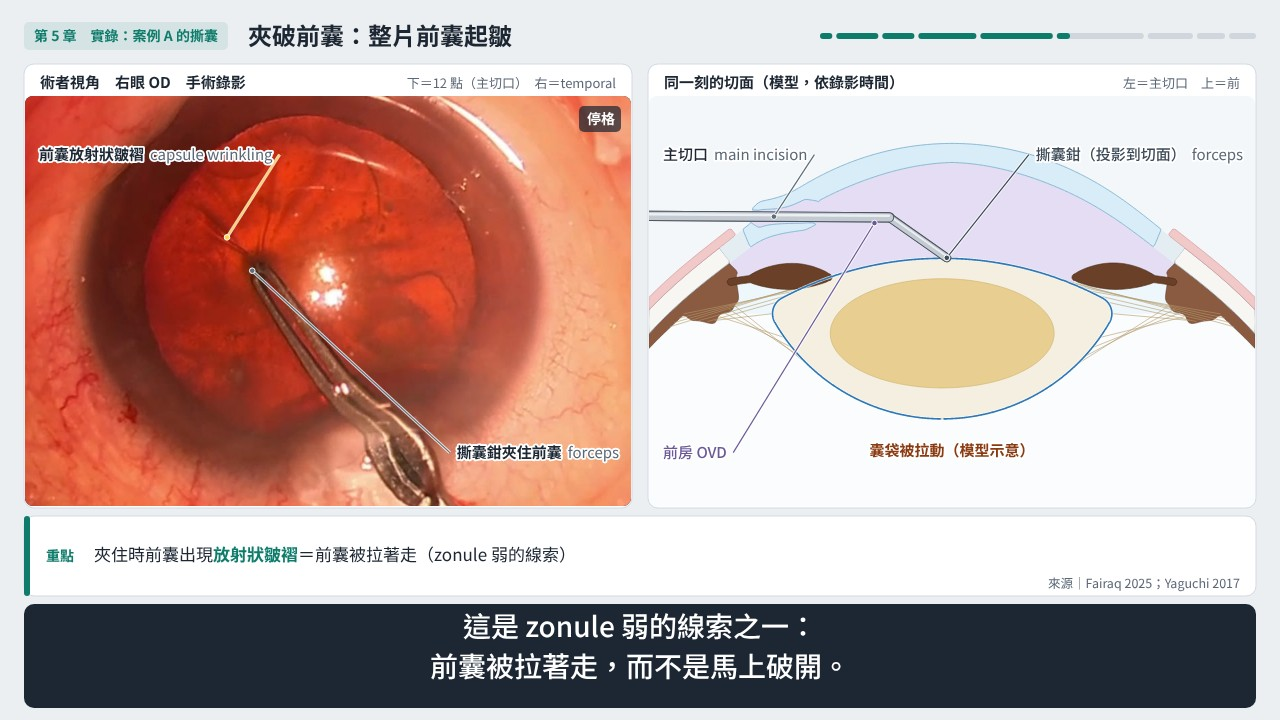
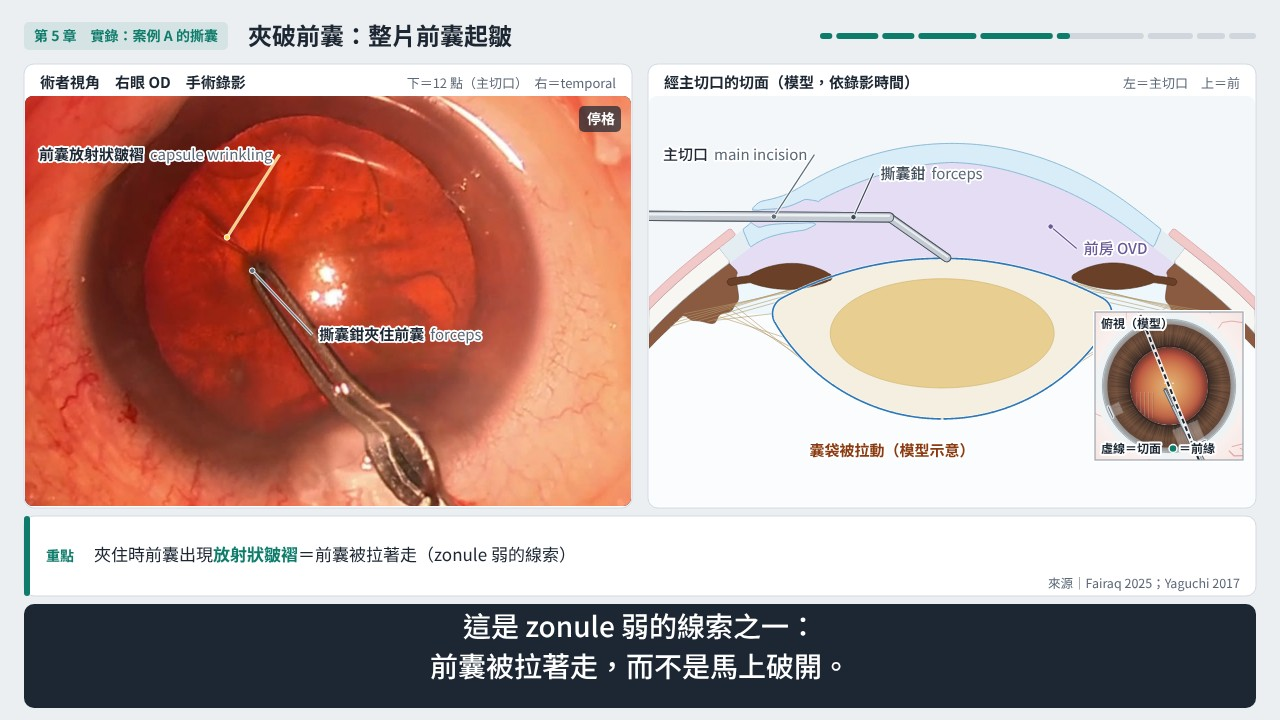
白內障 ①：第 5 章精修（右邊依鉗子位置同步前緣、側切口補 OVD 用側切口切面、裁切跟著眼睛）
- 錄影第 2–4 段逐格量鉗子夾的位置與角膜中心（47 個關鍵格），前緣依翻折瓣的幾何重建（示意），模型的前緣與鉗子都由關鍵格驅動
- 撕的時候右邊改成撕囊前緣的切面＋模型俯視小圖；5-3 改用經側切口的切面，cannula 從側切口進來
- 裁切關鍵格跟著眼睛；停格「重新夾」標籤改指張開的鉗尖之間；標籤靠近定位點
- check.js 加 7 條同步與器械檢查，故意改錯全部抓到；參考圖 5-1～5-6 自檢更新

Claude-Session: https://claude.ai/code/session_01UTYneMUKRrc1Hex89Apcyj

diff --git a/videos/src/cataract-1-wound-ccc/check.js b/videos/src/cataract-1-wound-ccc/check.js
@@ -30,11 +30,11 @@ const LEDGER = {
   '4-2': { '12': '結構', '1': '結構' },
   '4-3': { '402': 'Yaguchi 2017', '0.2': 'Yaguchi 2017', '0.39': 'Yaguchi 2017', '0.4': 'Yaguchi 2017', '5': 'Fairaq 2025', '6': 'Fairaq 2025', '12': '結構' },
   '5-1': { '0.5': '錄影', '12': '結構' },
-  '5-2': { '3': '錄影', '12': '結構' },
-  '5-3': { '4': '錄影', '12': '結構' },
-  '5-4': { '12': '結構' },
-  '5-5': { '5': '錄影', '4': '錄影', '12': '結構' },
-  '5-6': { '6': '錄影', '3': '錄影', '4': '錄影', '8': '錄影', '0.5': '錄影', '12': '結構' },
+  '5-2': { '3': '錄影', '12': '結構', '1': '結構' },
+  '5-3': { '4': '錄影', '12': '結構', '2': '錄影' },
+  '5-4': { '12': '結構', '1': '結構' },
+  '5-5': { '5': '錄影', '4': '錄影', '12': '結構', '1': '結構' },
+  '5-6': { '6': '錄影', '3': '錄影', '4': '錄影', '8': '錄影', '0.5': '錄影', '12': '結構', '1': '結構' },
   '5-7': { '1': '結構', '2': '結構', '4': '結構', '5': '結構', '00': '結構', '3': '錄影', '8': '錄影' },
   '6-1': { '12': '結構', '1': '結構' },
   '6-2': { '1': '結構', '2': '結構', '3': '結構', '4': '結構', '12': '結構' },
@@ -60,9 +60,14 @@ async function screenText() {   // all text drawn on screen per segment, at 60 %
         for (const t of document.querySelectorAll('#stage text')) if (!t.classList.contains('hdr')) set.add(t.textContent); }
       r[s.id] = [...set]; }
     return r; });
+  // chapter 5: the right panel's state at every tear keyframe (and at the moments another instrument is in the eye), as the page draws it
+  const sync = await p.evaluate(() => { const r = [], segOf = { pass2: '5-4', pass3: '5-5', pass4: '5-6' };
+    for (const [id, c] of Object.entries(FOOTAGE_DEF.clips)) for (const q of ((c.points || {}).grasp || [])) r.push({ seg: segOf[id], s: q.t });
+    for (const [seg, s] of [['5-1', 68], ['5-1', 70], ['5-3', 121], ['5-3', 124], ['5-6', 242], ['5-6', 248], ['5-6', 298], ['5-6', 299]]) r.push({ seg, s, other: 1 });
+    return r.map(q => { const z = SYNC_AT(q.seg, q.s), i = (z.st.cat.inst || [])[0]; return { ...q, view: z.view, hp: z.hp, frontH: z.frontH, prog: z.prog, secSt: z.secSt, inst: i ? { kind: i.kind, via: i.via || 'main', h: i.at && i.at.h } : null }; }); });
   await b.close();
   if (errs.length) throw new Error('page errors: ' + errs.join(' | '));
-  return out;
+  return { out, sync };
 }
 
 // ---------------------------------------------------------------- 2. narration ↔ model ↔ footage
@@ -122,6 +127,39 @@ function modelChecks(ctx) {
   { const pc = D.clips.pinch, w = pc.points.wrinkle[0].t, pr = D.clips.pass2;
     ok(w >= E.wrinkles && w <= E['wrinkles-gone'] && pc.freeze[0].at === w && pr.freeze[0].at === E['grasp-3'] && pr.points['regrasp-tips'][0].t === E['grasp-3'],
       `wrinkle label measured at ${w} s inside ${E.wrinkles}–${E['wrinkles-gone']} s (frozen); regrasp label on the frozen ${E['grasp-3']} s frame`); }
+  // chapter 5 sync (2026-11-09): the footage keyframes (forceps jaws and cornea centre, source px) → clock hour of the forceps; the tear front
+  // reconstructed from them (the forceps hold the folded flap = the torn arc mirrored about the front, so front φ ≥ ½ grasp φ; front at that
+  // bound, never back; pass1End before pass 2; complete at pass4-out). Re-implemented here and compared with what the page draws (SYNC_AT).
+  { const cc = P.ccc, m12 = v => ((v % 12) + 12) % 12, dH = (a, b) => Math.abs(m12(a - b + 6) - 6);
+    const hourPx = (p, c) => m12(12 - Math.atan2(p[0] - c[0], p[1] - c[1]) * 180 / Math.PI / 30);
+    const keys = []; for (const c of Object.values(D.clips)) { const g = (c.points || {}).grasp, k = (c.points || {}).cornea; if (g) g.forEach((q, i) => keys.push({ s: q.t, h: hourPx(q.p, k[i].p) })); }
+    keys.sort((a, b) => a.s - b.s); let prev = null, M = 0;
+    for (const q of keys) { const r = m12(cc.dir * (q.h - cc.h0)); q.g = prev === null ? r : prev + (m12(r - prev + 6) - 6); prev = q.g; M = Math.max(M, q.g); q.f = Math.max(P.pass1End, M / 2); q.fh = m12(cc.h0 + cc.dir * q.f); }
+    const page = s => ctx.sync.find(z => z.s === s && !z.other), bad = [], badF = [], badV = [], badFold = [];
+    for (const q of keys) { const z = page(q.s);
+      if (!z || !z.inst || z.inst.kind !== 'forceps' || dH(z.inst.h, q.h) > 0.5) bad.push(`${q.s}s footage ${q.h.toFixed(1)} h, model ${z && z.inst ? (+z.inst.h).toFixed(1) : '—'}`);
+      if (!z || z.frontH === null || dH(z.frontH, q.fh) > 0.5) badF.push(`${q.s}s expected ${q.fh.toFixed(1)} h, model ${z && z.frontH !== null ? z.frontH.toFixed(1) : '—'}`);
+      if (!z || z.view !== 'tear' || dH(z.hp, z.frontH) > 0.5 || (z.secSt.cat.inst || []).length) badV.push(`${q.s}s ${z ? z.view : '—'}`);
+      if (!(q.f <= q.g + 0.3 && q.g <= 2 * q.f + 0.3)) badFold.push(`${q.s}s grasp φ ${q.g.toFixed(1)}, front φ ${q.f.toFixed(1)}`); }
+    ok(keys.length >= 40 && !bad.length, `chapter 5: at all ${keys.length} tear keyframes the model's forceps sit at the footage's clock hour (±0.5 h)${bad.length ? '; off: ' + bad.slice(0, 4).join(', ') : ''}`);
+    ok(!badF.length, `chapter 5: the model's tear front at every keyframe is the front reconstructed from the footage (±0.5 h)${badF.length ? '; off: ' + badF.slice(0, 4).join(', ') : ''}`);
+    ok(!badV.length, `chapter 5: while the forceps tear the right panel is the section through the front (±0.5 h) and draws no instrument${badV.length ? '; wrong: ' + badV.slice(0, 4).join(', ') : ''}`);
+    ok(!badFold.length, `chapter 5: every grasp lies on the folded flap (front φ ≤ grasp φ ≤ 2 × front φ)${badFold.length ? '; off: ' + badFold.slice(0, 3).join(', ') : ''}`);
+    // narration: pass 2 tears to the right (temporal, 9 o'clock side); pass 3 goes on; pass 4 finishes and the front meets the start
+    const at = s => { const r = keys.filter(q => q.s <= s); return r.length ? r[r.length - 1] : null; }, e2 = at(E['pass2-out']), e3 = at(E['pass3-out']);
+    const end = ctx.sync.filter(z => !z.other && z.s >= E['pass4-in']).slice(-1)[0];
+    ok(e2 && e2.fh >= 8 && e2.fh <= 10.5 && e3 && e3.f >= e2.f + 1 && e3.f < 11.5 && line(ctx, '5-4', 0).includes('撕到右側') && line(ctx, '5-6', 1).includes('接回起點'),
+      `chapter 5: front at the end of pass 2 at ${e2 ? e2.fh.toFixed(1) : '—'} h (temporal, narration 撕到右側), end of pass 3 ${e3 ? e3.fh.toFixed(1) : '—'} h (not complete; pass 4 接回起點)`);
+    // other instruments: OVD through the side port → side-port section, through the main incision / flap out / pinch → main-incision section,
+    // and the section contains the tunnel the instrument goes through (it enters through its incision in the drawing)
+    const oth = ctx.sync.filter(z => z.other), badI = [];
+    for (const z of oth) { if (!z.inst) { badI.push(`${z.seg} ${z.s}s no instrument`); continue; }
+      const want = z.inst.via === 'side' ? 'side' : 'main', r = z.view === want ? K.section({ st: z.secSt, h: z.hp, win: { x: -8.6, y: -14.5, w: 17.2, h: 11.6 }, step: 0.25, id: 'x' }) : null;
+      if (!r || !r.A[want + 'Pivot'] || !r.A.tip0) badI.push(`${z.seg} ${z.s}s ${z.inst.kind} via ${z.inst.via} in the ${z.view} section`); }
+    ok(oth.length >= 8 && !badI.length, `chapter 5: ${oth.length} moments with the pinching forceps, the cannula or the flap out: each section passes through the incision that instrument uses${badI.length ? '; wrong: ' + badI.join(', ') : ''}`);
+    // the freeze-frame regrasp label points at the measured jaws (the grasp keyframe on that frame)
+    const rg = D.clips.pass2.points['regrasp-tips'][0], gk = D.clips.pass2.points.grasp.find(q => q.t === rg.t);
+    ok(gk && Math.hypot(gk.p[0] - rg.p[0], gk.p[1] - rg.p[1]) <= 3 && rg.t === E['grasp-3'], `regrasp label at the jaws measured on the frozen ${rg.t} s frame (grasp keyframe ${gk ? gk.p.join(', ') : '—'})`); }
   return R;
 }
 
@@ -148,13 +186,15 @@ function ledgerChecks(ctx) {
 const clone = o => JSON.parse(JSON.stringify(o));
 function baseCtx(screen) {
   const text = {}; for (const s of SEGS) text[s.id] = clone(s);
-  return { P: clone(CASE), foot: { sources: FOOT.sources, clips: clone(FOOT.clips) }, text, segs: clone(SEGS), screen: clone(screen), ledger: clone(LEDGER) };
+  return { P: clone(CASE), foot: { sources: FOOT.sources, clips: clone(FOOT.clips) }, text, segs: clone(SEGS), screen: clone(screen), ledger: clone(LEDGER), sync: clone(SYNC) };
 }
+let SYNC = null;
 const runAll = ctx => [...ledgerChecks(ctx), ...modelChecks(ctx)];
 (async () => {
-  const screen = await screenText();
+  const { out: screen, sync } = await screenText();
   if (process.argv.includes('--list')) { for (const s of SEGS) if (!s.chapterCard && s.layout !== 'refs') { const t = [s.title || '', ...(s.lines || []), ...(s.keys || []).map(k => k[1]), ...(screen[s.id] || [])];
     console.log(s.id, [...new Set(t.flatMap(numbers))].join(' '), '|', [...new Set(t.flatMap(x => cites(x).map(c => c.all)))].join(', ')); } return; }
+  SYNC = sync;
   const res = runAll(baseCtx(screen));
   let fail = 0; const shown = new Set();
   for (const [c, m] of res) { if (!c) fail++; const key = (c ? 'PASS ' : 'FAIL ') + m; if (!c || !/ledger|has a source|is a reference|citation/.test(m)) console.log(key); else shown.add(m); }
@@ -177,6 +217,12 @@ const runAll = ctx => [...ledgerChecks(ctx), ...modelChecks(ctx)];
       ['narrated speed wrong', c => { c.foot.clips.pass1.rate = 2; }],
       ['wrinkle label outside the window', c => { c.foot.clips.pinch.points.wrinkle[0].t = 76; }],
       ['narration count wrong', c => { c.text['5-6'].lines[3] = c.text['5-6'].lines[3].replace('夾瓣 8 次', '夾瓣 6 次'); }],
+      ['a grasp keyframe on the other side of the pupil', c => { const q = c.foot.clips.pass3.points.grasp[8], k = c.foot.clips.pass3.points.cornea[8]; q.p = [2 * k.p[0] - q.p[0], 2 * k.p[1] - q.p[1]]; }],
+      ['tear progress spread over the passes by time (the old drawing)', c => { const old = [[74.3, 0], [107.5, 0.06], [134, 0.06], [160.5, 0.5], [184, 0.5], [231.5, 0.88], [273.5, 0.88], [295, 1]];
+        const pw = s => { for (let i = 1; i < old.length; i++) if (s <= old[i][0]) { const [a, va] = old[i - 1], [b, vb] = old[i]; return va + (vb - va) * Math.max(0, Math.min(1, (s - a) / (b - a))); } return 1; };
+        for (const z of c.sync) if (!z.other) z.frontH = (((c.P.ccc.h0 + c.P.ccc.dir * 12 * pw(z.s)) % 12) + 12) % 12; }],
+      ['the OVD through the side port drawn in the main-incision section', c => { for (const z of c.sync) if (z.seg === '5-3') { z.view = 'main'; z.hp = (c.P.main.h + 6) % 12; } }],
+      ['regrasp label off the jaws', c => { c.foot.clips.pass2.points['regrasp-tips'][0].p = [510, 448]; }],
     ];
     let bad = 0;
     for (const [name, mut] of M) { const c = baseCtx(screen); mut(c); const n = runAll(c).filter(r => !r[0]).length; console.log(`${n ? 'PASS' : 'FAIL'} selftest: breaking 「${name}」 → ${n} check(s) fail`); if (!n) bad++; }

diff --git a/videos/src/cataract-1-wound-ccc/anim/footage.js b/videos/src/cataract-1-wound-ccc/anim/footage.js
@@ -7,6 +7,13 @@
 //   pass<n>-in / -out   the capsulorhexis forceps in / out of the eye through the main incision (4 passes)
 //   grasp-<n>           the forceps close on the flap after being opened (n = 1…8, every grasp seen at 2–4 fps; brief ones may be missed)
 //   ovd-refill-<n>      OVD added during the capsulorhexis (3); wipe-<n> the incision wiped with a sponge (blood)
+// Tear keyframes (points of pass2–pass4, 2026-11-09 re-annotated): `grasp` = where the closed forceps jaws hold the flap and `cornea` = the
+// limbus centre (circle search on every frame at 1–4 fps, median over ±1.25 s, each checked on a gridded zoom), both source px at the same
+// source times. Clock hour of the grasp = its bearing from the cornea centre (下＝12 點、右＝temporal 9 點). params.js turns them into the
+// model's forceps clock and the reconstructed tear front (依鉗子位置重建（示意）: the forceps hold the folded flap, often near its far end, so
+// they go round about twice while the front goes round once); check.js compares the drawing with these keyframes.
+// Crops follow the eye (same limbus track, mean over ±1–2.5 s): cy follows it; cx stops at 438 (the parameter column blocks x < 134), so
+// when the eye drifts left (2:34–2:41, 4:51–5:00) the cornea sits up to ~150 px left of the panel centre with the pupil still in view.
 // ============================================================================
 const FOOTAGE_DEF = {
   sources: typeof CATARACT_FOOTAGE !== 'undefined' ? CATARACT_FOOTAGE : require('../../cataract-series/footage-sources.js'),   // eslint-disable-line no-undef
@@ -49,13 +56,15 @@ const FOOTAGE_DEF = {
     // 1:16–1:48 pass 1: the forceps stay near the centre and raise the flap; out at 107.5 s (3× in the video)
     'pass1': {
       src: 'case-a', in: 76.0, out: 108.0, rate: 3,
-      crop: [{ t: 76.0, cx: 450, cy: 370, w: 600 }, { t: 88.0, cx: 445, cy: 350, w: 600 }, { t: 100.0, cx: 438, cy: 345, w: 600 }, { t: 108.0, cx: 438, cy: 320, w: 600 }],
+      crop: [{ t: 76.0, cx: 446, cy: 341, w: 600 }, { t: 80.0, cx: 441, cy: 337, w: 600 }, { t: 84.0, cx: 450, cy: 308, w: 600 }, { t: 88.0, cx: 438, cy: 301, w: 600 },
+        { t: 92.0, cx: 438, cy: 317, w: 600 }, { t: 98.0, cx: 438, cy: 327, w: 600 }, { t: 104.0, cx: 438, cy: 296, w: 600 }, { t: 108.0, cx: 438, cy: 263, w: 600 }],
       events: { 'pass1-out': 107.5 },
     },
     // 1:48–2:14 the incision is wiped (109–117 s), OVD through the side port (120–126 s) (4× in the video)
     'gap1': {
       src: 'case-a', in: 108.0, out: 134.0, rate: 4,
-      crop: [{ t: 108.0, cx: 460, cy: 320, w: 640 }, { t: 118.0, cx: 470, cy: 340, w: 640 }, { t: 134.0, cx: 465, cy: 340, w: 640 }],
+      crop: [{ t: 108.0, cx: 438, cy: 263, w: 600 }, { t: 112.0, cx: 438, cy: 304, w: 600 }, { t: 116.0, cx: 438, cy: 322, w: 600 }, { t: 119.0, cx: 460, cy: 334, w: 600 },
+        { t: 122.0, cx: 475, cy: 334, w: 600 }, { t: 128.0, cx: 475, cy: 330, w: 600 }, { t: 132.0, cx: 460, cy: 337, w: 600 }, { t: 134.0, cx: 442, cy: 310, w: 600 }],
       events: { 'wipe-1': 109.0, 'ovd-refill-1': 120.0, 'ovd-refill-1-end': 126.0 },
     },
     // 2:14–2:41 pass 2: the tip goes from the lower left of the pupil, past the bottom (12 o'clock), to the right: counter-clockwise
@@ -63,32 +72,66 @@ const FOOTAGE_DEF = {
     'pass2': {
       src: 'case-a', in: 134.0, out: 161.0, rate: 1,
       freeze: [{ at: 150.5, dur: 2.5 }],
-      crop: [{ t: 134.0, cx: 450, cy: 355, w: 600 }, { t: 146.0, cx: 440, cy: 340, w: 600 }, { t: 152.0, cx: 438, cy: 340, w: 600 }, { t: 161.0, cx: 438, cy: 320, w: 600 }],
+      crop: [{ t: 134.0, cx: 442, cy: 310, w: 600 }, { t: 138.0, cx: 444, cy: 323, w: 600 }, { t: 141.0, cx: 453, cy: 313, w: 600 }, { t: 144.0, cx: 438, cy: 310, w: 600 },
+        { t: 146.0, cx: 438, cy: 314, w: 600 }, { t: 148.0, cx: 438, cy: 271, w: 600 }, { t: 149.0, cx: 438, cy: 275, w: 600 }, { t: 151.0, cx: 438, cy: 321, w: 600 },
+        { t: 152.0, cx: 438, cy: 283, w: 600 }, { t: 153.0, cx: 438, cy: 237, w: 600 }, { t: 154.0, cx: 438, cy: 222, w: 600 }, { t: 155.0, cx: 438, cy: 228, w: 600 },
+        { t: 156.0, cx: 438, cy: 251, w: 600 }, { t: 157.0, cx: 438, cy: 273, w: 600 }, { t: 159.0, cx: 438, cy: 281, w: 600 }, { t: 161.0, cx: 438, cy: 304, w: 600 }],
       events: { 'pass2-in': 134.0, 'grasp-2': 135.5, 'grasp-3': 150.5, 'freeze': 150.5, 'pass2-out': 160.5 },
-      points: { 'regrasp-tips': [{ t: 150.5, p: [510, 448] }] },
+      points: {
+        'regrasp-tips': [{ t: 150.5, p: [413, 393] }],   // between the two open jaw tips on the frozen frame (4515; checked at 1.5× on the full-resolution frame)
+        'grasp': [{ t: 140, p: [404, 368] }, { t: 142, p: [437, 414] }, { t: 144, p: [476, 375] }, { t: 146, p: [472, 404] }, { t: 147, p: [527, 359] }, { t: 148, p: [545, 270] },
+          { t: 149, p: [531, 223] }, { t: 150.5, p: [413, 393] }, { t: 152, p: [489, 353] }, { t: 153, p: [533, 165] }, { t: 154, p: [452, 157] }, { t: 155, p: [439, 146] },
+          { t: 156, p: [360, 128] }, { t: 157, p: [304, 157] }, { t: 158, p: [248, 156] }, { t: 159, p: [187, 180] }, { t: 160, p: [190, 222] }],
+        'cornea': [{ t: 140, p: [454, 314] }, { t: 142, p: [450, 310] }, { t: 144, p: [440, 308] }, { t: 146, p: [412, 316] }, { t: 147, p: [420, 310] }, { t: 148, p: [436, 258] },
+          { t: 149, p: [424, 262] }, { t: 150.5, p: [358, 314] }, { t: 152, p: [382, 326] }, { t: 153, p: [404, 222] }, { t: 154, p: [358, 222] }, { t: 155, p: [338, 224] },
+          { t: 156, p: [308, 260] }, { t: 157, p: [300, 276] }, { t: 158, p: [294, 276] }, { t: 159, p: [274, 276] }, { t: 160, p: [274, 293] }],
+      },
     },
     // 2:41–3:52 wipe (165–175 s), OVD (180.5 s), pass 3 184–231.5 s with four grasps (5× in the video)
     'pass3': {
       src: 'case-a', in: 161.0, out: 232.0, rate: 5,
-      crop: [{ t: 161.0, cx: 438, cy: 330, w: 600 }],
+      crop: [{ t: 161.0, cx: 438, cy: 299, w: 600 }, { t: 164.0, cx: 438, cy: 328, w: 600 }, { t: 176.0, cx: 438, cy: 334, w: 600 }, { t: 182.0, cx: 438, cy: 305, w: 600 },
+        { t: 185.0, cx: 438, cy: 255, w: 600 }, { t: 191.0, cx: 438, cy: 270, w: 600 }, { t: 197.0, cx: 438, cy: 222, w: 600 }, { t: 200.0, cx: 438, cy: 227, w: 600 },
+        { t: 203.0, cx: 438, cy: 255, w: 600 }, { t: 206.0, cx: 438, cy: 220, w: 600 }, { t: 209.0, cx: 438, cy: 240, w: 600 }, { t: 212.0, cx: 438, cy: 295, w: 600 },
+        { t: 218.0, cx: 438, cy: 282, w: 600 }, { t: 221.0, cx: 438, cy: 304, w: 600 }, { t: 224.0, cx: 438, cy: 288, w: 600 }, { t: 227.0, cx: 438, cy: 260, w: 600 },
+        { t: 232.0, cx: 438, cy: 262, w: 600 }],
       events: { 'wipe-2': 165.0, 'ovd-refill-2': 180.5, 'pass3-in': 184.0, 'grasp-4': 186.0, 'grasp-5': 196.0, 'grasp-6': 206.0, 'grasp-7': 229.0, 'pass3-out': 231.5 },
+      points: {
+        'grasp': [{ t: 186, p: [259, 185] }, { t: 188, p: [343, 188] }, { t: 190, p: [260, 228] }, { t: 192, p: [270, 243] }, { t: 194, p: [237, 248] }, { t: 196, p: [416, 159] },
+          { t: 198, p: [417, 122] }, { t: 200, p: [330, 178] }, { t: 202, p: [245, 253] }, { t: 204, p: [190, 321] }, { t: 206, p: [344, 132] }, { t: 207, p: [367, 149] },
+          { t: 209, p: [283, 189] }, { t: 211, p: [198, 347] }, { t: 213, p: [307, 377] }, { t: 215, p: [333, 396] }, { t: 219, p: [260, 342] }, { t: 221, p: [317, 404] },
+          { t: 223, p: [421, 386] }, { t: 225, p: [477, 329] }, { t: 227, p: [535, 296] }, { t: 229, p: [441, 365] }],
+        'cornea': [{ t: 186, p: [364, 230] }, { t: 188, p: [416, 272] }, { t: 190, p: [374, 276] }, { t: 192, p: [370, 274] }, { t: 194, p: [370, 248] }, { t: 196, p: [436, 228] },
+          { t: 198, p: [432, 206] }, { t: 200, p: [414, 224] }, { t: 202, p: [360, 268] }, { t: 204, p: [350, 268] }, { t: 206, p: [412, 206] }, { t: 207, p: [440, 190] },
+          { t: 209, p: [390, 216] }, { t: 211, p: [332, 300] }, { t: 213, p: [378, 298] }, { t: 215, p: [374, 296] }, { t: 219, p: [366, 302] }, { t: 221, p: [384, 304] },
+          { t: 223, p: [434, 308] }, { t: 225, p: [436, 268] }, { t: 227, p: [436, 256] }, { t: 229, p: [388, 254] }],
+      },
     },
     // 3:52–4:33 reflux at the incision, OVD through the main incision (241–252 s), wipe (254–265 s) (6× in the video)
     'gap3': {
       src: 'case-a', in: 232.0, out: 273.0, rate: 6,
-      crop: [{ t: 232.0, cx: 460, cy: 300, w: 640 }],
+      crop: [{ t: 232.0, cx: 438, cy: 261, w: 600 }, { t: 236.0, cx: 438, cy: 278, w: 600 }, { t: 240.0, cx: 438, cy: 254, w: 600 }, { t: 248.0, cx: 438, cy: 278, w: 600 },
+        { t: 256.0, cx: 438, cy: 222, w: 600 }, { t: 260.0, cx: 438, cy: 240, w: 600 }, { t: 264.0, cx: 438, cy: 296, w: 600 }, { t: 273.0, cx: 438, cy: 295, w: 600 }],
       events: { 'ovd-refill-3': 241.0, 'ovd-refill-3-end': 252.0, 'wipe-3': 254.0 },
     },
     // 4:33–4:56 pass 4: grasp 277.0 s, the last part torn at the temporal side; out 295.0 s (6× in the video)
     'pass4': {
       src: 'case-a', in: 273.0, out: 296.0, rate: 6,
-      crop: [{ t: 273.0, cx: 445, cy: 340, w: 600 }, { t: 282.0, cx: 445, cy: 320, w: 600 }, { t: 290.0, cx: 438, cy: 300, w: 600 }, { t: 296.0, cx: 438, cy: 310, w: 600 }],
+      crop: [{ t: 273.0, cx: 438, cy: 290, w: 600 }, { t: 275.0, cx: 438, cy: 299, w: 600 }, { t: 277.0, cx: 439, cy: 282, w: 600 }, { t: 279.0, cx: 448, cy: 260, w: 600 },
+        { t: 283.0, cx: 440, cy: 254, w: 600 }, { t: 285.0, cx: 460, cy: 224, w: 600 }, { t: 287.0, cx: 438, cy: 212, w: 600 }, { t: 288.0, cx: 438, cy: 207, w: 600 },
+        { t: 293.0, cx: 438, cy: 210, w: 600 }, { t: 295.0, cx: 438, cy: 261, w: 600 }, { t: 296.0, cx: 438, cy: 278, w: 600 }],
       events: { 'pass4-in': 273.5, 'grasp-8': 277.0, 'pass4-out': 295.0 },
+      points: {
+        'grasp': [{ t: 278, p: [434, 368] }, { t: 280, p: [475, 328] }, { t: 282, p: [506, 342] }, { t: 284, p: [498, 343] }, { t: 286, p: [599, 213] }, { t: 288, p: [529, 151] },
+          { t: 290, p: [552, 157] }, { t: 292, p: [335, 112] }],
+        'cornea': [{ t: 278, p: [448, 276] }, { t: 280, p: [448, 254] }, { t: 282, p: [452, 252] }, { t: 284, p: [448, 248] }, { t: 286, p: [466, 214] }, { t: 288, p: [420, 196] },
+          { t: 290, p: [400, 170] }, { t: 292, p: [274, 200] }],
+      },
     },
     // 4:56–5:00.5 the free flap is taken out through the main incision (297.5–299.5 s) (0.5×)
     'flap': {
       src: 'case-a', in: 296.0, out: 300.5, rate: 0.5,
-      crop: [{ t: 296.0, cx: 438, cy: 320, w: 600 }],
+      crop: [{ t: 296.0, cx: 438, cy: 278, w: 600 }, { t: 297.5, cx: 438, cy: 216, w: 600 }, { t: 299.0, cx: 438, cy: 207, w: 600 }, { t: 300.5, cx: 438, cy: 238, w: 600 }],
       events: { 'flap-out': 297.5, 'flap-out-end': 299.5 },
     },
     // title still: pass 3, the forceps on the flap (3:12)

diff --git a/videos/src/cataract-1-wound-ccc/anim/params.js b/videos/src/cataract-1-wound-ccc/anim/params.js
@@ -10,7 +10,39 @@ const CASE = {
   // the flap is first raised nasal of the centre (1:16–1:24) and pass 2 sweeps from about 1–2 o'clock past 12 to 9 (2:20–2:36)
   ccc: { r: 2.625, h0: 3, dir: -1 },
   optic: 6.0,                                                       // IOL optic diameter: 院內常規（型號待確認）
-  // model progress of the tear per pass (示意: the tear front itself is not readable on the recording)
-  prog: [[74.3, 0], [107.5, 0.06], [134.0, 0.06], [160.5, 0.5], [184.0, 0.5], [231.5, 0.88], [273.5, 0.88], [295.0, 1]],
+  pass1End: 0.36,                                                   // tear front at the end of pass 1 (clock hours travelled; the flap just raised, 示意)
 };
-if (typeof module !== 'undefined') module.exports = { CASE };
+// ---------------------------------------------------------------- the tear of case A, reconstructed from the forceps (依鉗子位置重建（示意）)
+// footage.js gives, per pass, the closed forceps jaws (`grasp`) and the limbus centre (`cornea`) in source px at the same source times.
+// φ = clock hours travelled from ccc.h0 in ccc.dir, so the model's prog = φ / 12 and the front's clock hour is h0 + dir·φ.
+//   grasp φ: the grasp's bearing from the cornea centre (下＝12 點、右＝9 點), unwrapped in time order (the shorter way between keyframes).
+//   front φ: the folded flap is the torn arc [0, φf] mirrored about the front's radius, so it covers [φf, 2φf] and a grasp on it means
+//            φf ≥ ½ φg. The front is put at that bound and never goes back: the farthest grasp so far was the flap's far end.
+//            Before pass 2 it is the end of pass 1 (pass1End); after the last keyframe of pass 4 it reaches 12 at pass4-out (complete).
+// Pure (Node and page): tearTrack(FOOTAGE_DEF, CASE) → { keys, grasp(s), front(s), hourOf(φ) }; grasp(s) is null while the forceps are out.
+const clockOfPx = (p, c) => { const a = Math.atan2(p[0] - c[0], p[1] - c[1]) * 180 / Math.PI; return (((12 - a / 30) % 12) + 12) % 12; };
+function tearTrack(D, P) {
+  const cc = P.ccc, E = {}; for (const c of Object.values(D.clips)) Object.assign(E, c.events || {});
+  const spanOf = h => (((cc.dir * (h - cc.h0)) % 12) + 12) % 12, hourOf = f => (((cc.h0 + cc.dir * f) % 12) + 12) % 12;
+  const keys = [];
+  for (const [id, c] of Object.entries(D.clips)) { const g = (c.points || {}).grasp, k = (c.points || {}).cornea; if (!g) continue;
+    g.forEach((q, i) => { if (!k[i] || k[i].t !== q.t) throw new Error(`tear: ${id} grasp/cornea keyframes differ at ${q.t}`); keys.push({ s: q.t, clip: id, h: clockOfPx(q.p, k[i].p) }); }); }
+  keys.sort((a, b) => a.s - b.s);
+  let prev = null, M = 0;
+  for (const q of keys) { const r = spanOf(q.h); q.phiG = prev === null ? r : prev + ((((r - prev) % 12) + 18) % 12 - 6); prev = q.phiG; }
+  const passes = [1, 2, 3, 4].map(i => [E[`pass${i}-in`], E[`pass${i}-out`]]), passAt = s => passes.findIndex(([a, b]) => s >= a && s <= b);
+  const lin = (ks, s, f) => { if (s <= ks[0].s) return f(ks[0]); for (let i = 1; i < ks.length; i++) if (s <= ks[i].s) { const a = ks[i - 1], b = ks[i], u = (s - a.s) / (b.s - a.s); return f(a) + (f(b) - f(a)) * u; } return f(ks[ks.length - 1]); };
+  const grasp = s => { const i = passAt(s); if (i < 0) return null; const ks = keys.filter(q => q.s >= passes[i][0] && q.s <= passes[i][1]); return ks.length ? lin(ks, s, q => q.phiG) : null; };
+  // front at each keyframe: ½ × running max of the grasp, at least the end of pass 1
+  for (const q of keys) { M = Math.max(M, q.phiG); q.phiF = Math.max(P.pass1End, M / 2); }
+  const last = keys[keys.length - 1], done = E['pass4-out'];
+  const front = s => {
+    if (s <= E['pass1-out']) return P.pass1End * Math.min(1, Math.max(0, (s - E['wrinkles-gone']) / (E['pass1-out'] - E['wrinkles-gone'])));
+    if (s < keys[0].s) return P.pass1End;
+    if (s >= last.s) return s >= done ? 12 : lin([last, { s: done, phiF: 12 }], s, q => q.phiF);
+    let m = 0; for (const q of keys) if (q.s <= s) m = Math.max(m, q.phiG);
+    const g = grasp(s); return Math.max(P.pass1End, Math.max(m, g === null ? 0 : g) / 2);
+  };
+  return { keys, grasp, front, hourOf, spanOf, passAt };
+}
+if (typeof module !== 'undefined') module.exports = { CASE, tearTrack, clockOfPx };

diff --git a/videos/src/cataract-1-wound-ccc/spec.md b/videos/src/cataract-1-wound-ccc/spec.md
@@ -68,7 +68,7 @@
     - 第 2 章：2-2 的「前房淺」箭頭畫在 OVD 撐滿的切面上（前房深度沒變），要改成前房真的變淺的狀態或拿掉切面上的箭頭。（第 2 版已做）
     - 第 3 章：3-3 右邊（器械伸到對側、頂蓋抬起）看起來像一根橫桿，要放大到隧道、讓變形看得出來；3-2 左邊的切口俯視可以加長寬兩條尺寸線對比。（第 2 版已做）
     - 第 4 章：4-2 拉力箭頭與標籤擠在左下；4-1 右邊三個刻度（撕囊緣、optic 緣、zonule 附著）靠很近，可放大。（第 3 版已做）
-    - 第 5 章（最弱）：右邊切面的撕囊進度只依時間分配，看不出和錄影同一個鐘點；可改用 `tear` 切面或在切面旁加小的模型俯視指出前緣鐘點。錄影的裁切在 2:36–2:40、4:50–4:55 眼睛往左上偏時跟不到（左側參數欄限制）。各段鉗尖只在停格量過，動態標籤還沒做。
+    - 第 5 章（最弱）：右邊切面的撕囊進度只依時間分配，看不出和錄影同一個鐘點；可改用 `tear` 切面或在切面旁加小的模型俯視指出前緣鐘點。錄影的裁切在 2:36–2:40、4:50–4:55 眼睛往左上偏時跟不到（左側參數欄限制）。各段鉗尖只在停格量過，動態標籤還沒做。（第 4 版已做同步與裁切，見下）
     - 第 6 章：6-2 Little 法的兩個箭頭方向要放大自檢；6-1 run-out 可加慢慢偏出去的動畫。（第 3 版已做）
     - 第 7 章：可用。
     - 出片前：總覽（每章一張）放 `ref/overview/`；`publish/` 還沒做。
@@ -88,3 +88,11 @@
   - 6-3：左邊停格的皺褶定位點改到最深的放射狀皺褶（`anim/footage.js` 的 `wrinkle` 從 (330, 305) 改 (350, 312)，原本落在皺褶尾端外約 10 px；原始影格放大 8 倍確認；5-1 共用同一點，參考圖跟著更新）；右邊改成 routine｜zonule 弱並排，第 2 句拉力變小 → 囊袋動得少、皺褶也少（示意），下方依序出現第一步與 CTR 提示。
   - 檢查：數字帳本更新（4-2 拿掉「110°」、比例尺的 1；6-2 加步驟編號 3、4）；`check-all` 全部 PASS；另用腳本在每句 12 個時刻量第 4、6 章的標籤：都在面板內、不重疊、引線不交叉、最長 117 px。參考圖重新自檢更新：4-1、4-2、4-3、5-1、6-1、6-2（改在第 2 句末）、6-3（改在第 1 句末）。
   - 第 4、6 章還可以做的（不擋出片）：4-2 第 3 句撕囊鉗桿剛好壓在前緣上（主切口在 11 點多、前緣在 10–11 點，幾何上避不開），前緣與夾點的距離改畫成桿旁的尺寸線；6-1／6-2 同理，看得見的撕開邊緣用描紅。4-3 的 zonule 被拉長只看得出一點點（位移 0.3 mm）。6-2 前緣轉回來的路徑是手畫的示意（模型的 run-out 只會往外，沒有「轉回來」的狀態）。
+- 2026-11-09（第 4 版：第 5 章精修；Claude 小助手。旁白、重點框沒改，模型 `globe/cataract.js` 與錄影套件沒改）：
+  - 錄影重新標註（`anim/footage.js`）：第 2–4 段每 1–2 秒量鉗子夾住的位置（`grasp`）與角膜中心（`cornea`），共 47 個關鍵格。角膜中心用角膜緣圓的自動搜尋（和 `footage-sources.js` 既有的定位點比對 7 個，差 ≤ 14 px），前後 1.25 s 取中位數，放大疊圖逐張看過。結果：鉗子三段共繞約兩圈，不能直接當前緣；改用翻折瓣的幾何推前緣（前緣 ≥ 鉗子的一半、只往前），第 2 段末在 9 點多、第 3 段末約 6 點、第 4 段接回起點（細節與示意說明在 `overview-notes.md`）。
+  - 右邊面板（`draw.js` 的 `syncR`）：撕的時候（5-2、5-4、5-5、5-6 第二段）改成撕囊前緣的切面（切面跟著前緣轉、不畫撕囊鉗，頁尾註明），加模型俯視小圖（和錄影同方向：撕開的邊緣、前緣、鉗子在錄影量到的鐘點、虛線＝切面的位置）；5-3 補 OVD 改成經側切口的切面（cannula 從側切口隧道進來，原本浮在前房），標題跟著改；5-1、5-6 的補 OVD 與取出前囊瓣用經主切口的切面。模型狀態全部由 `params.js` 的 `tearTrack` 從關鍵格算出，`caseAt` 不再用時間分配的 `prog`。
+  - 裁切：pass1、gap1、pass2、pass3、gap3、pass4、flap 的裁切關鍵格改成跟著眼睛（同一條角膜緣軌跡）；上下完全跟上（原本 2:33–2:36 瞳孔上緣被切掉約 1/4），左右受參數欄限制，眼睛偏左時角膜中心偏左 110–170 px（瞳孔仍在畫面內）。`footage-cli.js check` 全部 PASS、影格重抽。
+  - 標籤：5-4 停格「重新夾」原本指到瞳孔緣（510, 448），改指兩個張開的鉗尖之間（413, 393，原始影格 4515 放大確認）；5-1 停格的鉗尖標籤移到鉗尖旁（皺褶與鉗尖定位點在影格 2160 放大確認）；切面的器械標籤改在桿上；第 5 章每句 12 個時刻量過：都在面板內、不重疊、引線不交叉、最長 98 px。5-4 的逆時針箭頭改繞追蹤到的角膜中心。
+  - 檢查（`check.js` 加 7 條）：47 個關鍵格上模型的鉗子鐘點＝錄影量到的鐘點（±0.5 h）、模型的前緣＝依關鍵格重建的前緣（±0.5 h，check.js 自己重算）、撕的時候右邊是經前緣的切面且不畫器械、每個夾點都在翻折的瓣上、第 2 段末前緣在 temporal（旁白「撕到右側」）且第 3 段末還沒接回、其他器械的切面經過它用的切口、重新夾標籤在量到的鉗尖。故意改錯 4 個（關鍵格放到瞳孔另一側、前緣改回時間分配、側切口補 OVD 畫在主切口切面、標籤改回原位）全部抓到；另把 `draw.js` 真的改回時間分配的 `prog` 跑一次，「前緣＝重建的前緣」FAIL，再改回。
+  - `check-all` 全部 PASS；參考圖重新自檢更新 5-1～5-6（5-5 改在第 1 句、5-6 改在第 1 句）。
+  - 第 5 章還可以做的（不擋出片）：前緣是依鉗子位置推的下限（示意），刀後若有更清楚的錄影可再校正；5-3 第 2 句「前房撐回來」切面上前房深度沒變（可用 `push` 示意，沒做）；4:52–4:55 與取出前囊瓣時眼睛偏左，參數欄擋住，無法置中。

diff --git a/videos/src/cataract-1-wound-ccc/overview-notes.md b/videos/src/cataract-1-wound-ccc/overview-notes.md
@@ -11,7 +11,8 @@
 | 3-3 | 器械伸到對側時隧道頂蓋被抬起、後唇被壓下、Descemet 皺褶（皺褶的大小與間距） | 沒有出處，只有機轉；旁白與重點都說「機轉示意」，畫面標「角膜皺褶（示意）」「變形為機轉示意」 |
 | 4-2 | 撕囊進行到約 110° 的狀態、拉力箭頭（兩圖同一組 3D 向量，從翻折瓣上的夾點出發）、前緣接下來的路徑（照著圓走／往外跑到虹膜下）、第 3 句前緣往前時夾點跟著瓣走而離前緣越來越遠 | 力學方向依 Karim 2010（技術示範）與 LoBue 2024；箭頭長短、路徑形狀、瓣的翻折幾何是示意 |
 | 4-3、6-3 | routine｜zonule 弱並排：同樣的拉力下囊袋跟著動 0.3 mm（沿拉力方向的切面：虛線＝zonule 正常時）、前囊皺褶的樣子與位置；6-3 第 2 句拉力變小 → 位移與皺褶變小 | 只有「做 CCC 時前囊起皺」有出處（Chen 2025、Fairaq 2025）；位移量、皺褶、拉力變小的效果是示意（畫面標「示意」）；0.3 mm 落在 Yaguchi 2017 的 Grade II（0.20–0.39 mm），旁白與畫面都不講這個數字 |
-| 5-1～5-6 | 右邊「同一刻的切面」：撕囊進度、瓣的形狀、鉗子在切面上的位置 | 錄影上看不清楚撕開的前緣，進度只依各段鉗子在眼內的時間分配（`params.js` 的 `prog`），畫面標「撕囊進度依錄影時間重建（示意）」；鉗子是投影到切面 |
+| 5-2、5-4～5-6 | 右邊「撕囊前緣的切面」與左上（或右下）的模型俯視小圖：前緣的鐘點、瓣的形狀；俯視小圖裡的撕囊鉗在錄影量到的鐘點 | 錄影上看不清楚撕開的前緣（高通濾波放大也讀不出來）。2026-11-09 改成「依鉗子位置重建」：逐格量鉗子夾住的位置與角膜中心（`anim/footage.js` 的 `grasp`、`cornea`，47 個關鍵格），鉗子在三段裡繞了約兩圈，所以鉗子不是一直夾在前緣旁，而是常夾在翻折的瓣的遠端；翻折的瓣是撕開的弧以前緣為軸鏡射，所以前緣至少走到鉗子的一半，前緣就取這個下限、只往前不後退（`params.js` 的 `tearTrack`）。得到：第 2 段末前緣在 9 點多（temporal，和旁白「撕到右側」一致）、第 3 段末約 6 點、第 4 段接回起點。畫面頁尾「前緣依鉗子位置重建（示意）」；第 1 段（5-2）沒有鉗子關鍵格，進度依時間（頁尾「撕囊進度依錄影時間重建（示意）」）。撕囊起點 3 點、方向逆時針仍是示意 |
+| 5-1、5-3、5-6 | 夾破前囊、補 OVD、取出前囊瓣時的切面：器械從它用的切口進來（5-3 改用經側切口的切面） | 器械在錄影裡的位置只量了鐘點，切面上的深度與桿的角度是模型（器械軸通過隧道） |
 | 5-1 | 夾住前囊時囊袋被拉動 | 錄影看得到皺褶（真實），囊袋位移是模型示意 |
 | 6-1、6-2 | run-out 的路徑與動畫、Little 法：瓣攤平回原位、重夾的位置（瞳孔內看得到、最靠近前緣的瓣上）、兩個箭頭、前緣轉回來的路徑（虹膜下的部分畫點線） | 動畫示意；步驟順序（停 → 補 OVD 壓平 → 往反方向、再往中央拉）依 Little 2006、LoBue 2024、Fairaq 2025；「靠近前緣重夾」依 Karim 2010 的原則 |
 
@@ -22,6 +23,8 @@
 - 右手是慣用手、side port 在左手那側（系列規格書，Claude 補）。
 
 ## 錄影實測（案例 A，逐格判讀，數字的出處寫「案例 A 錄影」）
+- 2026-11-09 第 4 版：撕囊各段的鉗子位置逐格量（第 2、4 段 1–4 fps、第 3 段 0.5 fps；角膜中心用自動找的角膜緣圓、前後 1.25 s 取中位數，放大疊圖確認），量到的鐘點見 `anim/footage.js`；第 2 段鉗子從 1–2 點經 12、9、6 點到 4 點多，第 3 段從 5–6 點經 3、12 點到 10 點，第 4 段從 12 點到 7 點。
+- 錄影裁切跟著眼睛上下移動；左右受左側參數欄限制（x < 134 不能用）：眼睛偏左時（2:34–2:41、4:51–5:00）角膜中心在面板裡偏左 110–170 px，瞳孔仍在畫面內（4:52–4:55 約 0.5 秒左緣被切到一點）。
 - 主切口在 12 點偏 temporal 21–24°（16 個定位點平均 22.2°）；side port 約 2 點（主切口 nasal 側約 88°）。
 - 撕囊：1:09.5 鉗子直接夾住前囊中央（錄影裡沒有先用 cystotome）；1:10–1:14 前囊放射狀皺褶；鉗子進出 4 次、夾瓣至少 8 次（2–4 fps 判讀，短暫的重夾可能漏掉）、補 OVD 3 次、擦血 3 次以上；1:09.5 → 4:59.5 約 3 分 50 秒。
 - 撕囊方向「術者看逆時針」只依第 2 段鉗尖的軌跡（1–2 點 → 12 點 → 9 點）；起點 3 點（`h0`）是依瓣先在中央偏 nasal 立起來推的，示意。

diff --git a/videos/src/cataract-1-wound-ccc/script-draft.md b/videos/src/cataract-1-wound-ccc/script-draft.md
@@ -451,5 +451,5 @@
 | 4:57.5–4:59.5 | 鉗子再進來，把前囊瓣從主切口帶出來 |
 | 5:18 起 | Hydrodissection（② 的內容） |
 - 撕囊從夾破前囊（1:09.5）到取出前囊瓣（4:59.5）約 3 分 50 秒；鉗子進出 4 次，夾瓣至少 8 次（2–4 fps 判讀，短暫的重夾可能漏掉），補 OVD 3 次，擦血 3 次以上。
-- 撕囊起點與方向：瓣先在中央偏 nasal 立起（1:16–1:24），第 2 段鉗尖由 1–2 點經 12 點到 9 點 → 模型 `h0` 3、`dir` −1（術者看逆時針）。撕開的前緣本身在錄影上看不清楚，所以模型的撕囊進度只依各段的時間分配（示意），已在畫面標明。
+- 撕囊起點與方向：瓣先在中央偏 nasal 立起（1:16–1:24），第 2 段鉗尖由 1–2 點經 12 點到 9 點 → 模型 `h0` 3、`dir` −1（術者看逆時針）。撕開的前緣本身在錄影上看不清楚：2026-11-09 第 4 版改成依鉗子位置重建（逐格量鉗子夾的位置，前緣取「翻折的瓣以前緣為軸鏡射」推出的下限，示意；方法與結果見 `overview-notes.md`），已在畫面標明。
 - 看不到的：每一段撕到哪個鐘點、最後撕囊的大小（水分離時出現的金色環接近瞳孔緣，但沒有可靠的比例尺，不講數字）、囊袋是否在撕的過程中整體移動（只有 1:10–1:14 的皺褶清楚可見）。
